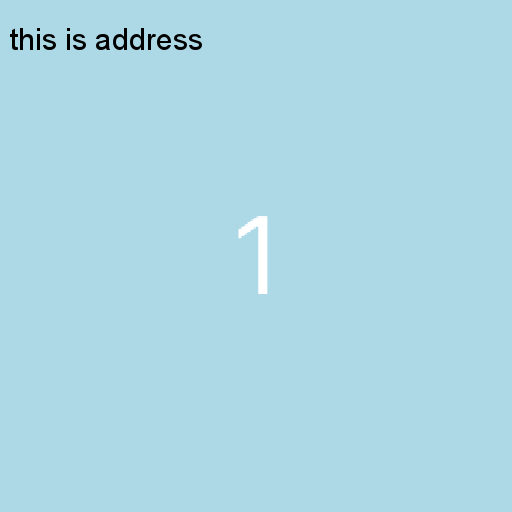
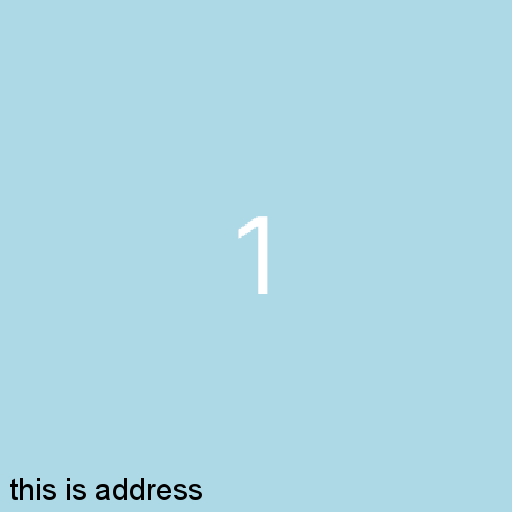
chore

Changed region(s): [[0.0, 0.9375, 0.4062, 1.0], [0.0, 0.0625, 0.4062, 0.0938]]

diff --git a/src/utils/cloudinary.ts b/src/utils/cloudinary.ts
@@ -26,26 +26,6 @@ const uploadImagePath = async (file: string) => {
   }
 };
 
-// const uploadImageFile = async (file: Buffer) => {
-//   try {
-//     const data = cd.uploader
-//       .upload_stream({ format: "png" }, (err, res) => {
-//         if (err) {
-//           console.log(err);
-//         } else {
-//           console.log(`Upload succeed: ${res}`);
-//           // filteredBody.photo = result.url;
-//         }
-//       })
-//       .end(file);
-//     console.log(data);
-//     return data;
-//   } catch (error) {
-//     console.log(error);
-//     return null;
-//   }
-// };
-
 const uploadBuffer = async (
   buffer: Buffer
 ): Promise<_cloudinary.UploadApiResponse | undefined> => {
@@ -67,10 +47,50 @@ const uploadBuffer = async (
   });
 };
 
+const getAssetInfo = async (
+  publicId: string
+): Promise<_cloudinary.ResponseCallback | undefined> => {
+  // Return colors in the response
+  const options = {
+    colors: true,
+  };
+
+  try {
+    // Get details about the asset
+    const result = await cd.api.resource(publicId, options);
+    // console.log(result);
+    return result;
+  } catch (error) {
+    console.error(error);
+  }
+};
+
+const createImageTag = (publicId: string, colors: any[]) => {
+  // Set the effect color and background color
+  // console.log(colors);
+  // const [[effectColor, backgroundColor]] = colors;
+  // console.log(effectColor, backgroundColor);
+
+  // Create an image tag with transformations applied to the src URL
+  let imageTag = cd.image(publicId, {
+    transformation: [
+      { width: 250, height: 250, gravity: "faces", crop: "thumb" },
+      { radius: "max" },
+      { effect: "outline:10", color: "#ADD8E6" },
+      { background: "99.1" },
+    ],
+  });
+
+  return imageTag;
+};
+
 // uploadImageFile,
 export const cloudinary = {
   uploadImagePath,
   uploadBuffer,
+  getAssetInfo,
+  createImageTag,
+  cd,
 };
 
 export default cd;

diff --git a/src/controller/metadata.ts b/src/controller/metadata.ts
@@ -7,17 +7,42 @@ import { readPng } from "../utils/common";
 export const getMetadata = async (req: Request, res: Response) => {
   const id = req.params?.id;
   try {
-    if (!id) throw new Error("getMetadata || id is not provided");
+    if (!id) throw new Error("id is not provided");
     const metadata = await db.Metadata.query.findMetadata(Number(id));
     if (metadata) {
-      res.status(200).json(metadata.metadata);
+      return res.status(200).json(metadata.metadata);
     } else {
-      res.status(404).json({ message: "Metadata not found" });
+      return res.status(404).json({ message: "Metadata not found" });
     }
-  } catch (error) {
-    console.log(error);
-    res.status(500).json({ message: "getMetadata || internal error" });
+  } catch (error: any) {
+    const message = error.message || "internal error";
+    res.status(500).json({ message });
   }
 };
 
-export const getImage = (req: Request, res: Response) => {};
+export const getImage = async (req: Request, res: Response) => {
+  try {
+    const public_id = "s3jeaktszkwy4fpcemcu";
+    const tmp_public_id = req.params?.id;
+
+    if (!public_id) throw new Error("id is not provided");
+
+    // console.log(public_id);
+    const resource = (await cloudinary.getAssetInfo(public_id)) as any;
+    if (!resource) throw new Error("resource is not found in cloudinary");
+    // console.log(resource);
+    // const img = cloudinary.createImageTag(public_id, resource);
+    // console.log(img);
+    const img = cloudinary.cd.image(public_id, { width: 400, crop: "pad" });
+    // const img = `<img src="${resource.secure_url}" />`;
+
+    // console.log(img);
+    res.send(img);
+  } catch (error: any) {
+    const message = error.message || "internal error";
+    console.log(message);
+    res.status(500).send(message);
+  }
+};
+
+export const uploadJson = (req: Request, res: Response) => {};

diff --git a/src/controller/image copy.ts b/src/controller/image copy.ts
@@ -11,18 +11,7 @@ import {
 import { cloudinary } from "../utils/cloudinary";
 import { readPng, writePng } from "../utils/common";
 
-export const getImage = async (req: Request, res: Response) => {
-  try {
-    const { public_id } = req.params;
-    console.log(public_id);
-    const resource = await cloudinary.getAssetInfo(public_id);
-    console.log(resource);
-    res.send(resource);
-  } catch (error) {
-    console.log(error);
-    res.status(500).send(error);
-  }
-};
+export const getImage = (req: Request, res: Response) => {};
 
 export const uploadImage = async (req: Request, res: Response) => {
   try {
@@ -31,10 +20,13 @@ export const uploadImage = async (req: Request, res: Response) => {
     const png = readPng(tmpPath);
     if (!png) throw new Error("fail to read png file");
 
+    //
     // await loadLayerImg(png);
     const loadedImage = (await loadLayerImg(png)) as Buffer;
     drawElement(loadedImage);
     drawText("this is address");
+    // saveCanvasPng(`${BASE_PATH}/images/new-image.png`);
+    // console.log(canvasImg);
 
     // const publicId = await cloudinary.uploadImageFile(png);
     const cdBuffer = await cloudinary.uploadBuffer(getCanvasPng());
@@ -43,6 +35,7 @@ export const uploadImage = async (req: Request, res: Response) => {
     res.status(200).json(cdBuffer);
     clearCanvas();
   } catch (error) {
+    console.log(error);
     res.status(500).json({ message: error });
   }
 };

diff --git a/src/utils/canvas.ts b/src/utils/canvas.ts
@@ -37,7 +37,7 @@ export const clearCanvas = () => {
 
 export const drawText = (text: string) => {
   ctx.font = "30px Arial";
-  ctx.fillText(text, 10, 50);
+  ctx.fillText(text, 10, 500);
 };
 
 export const saveCanvasPng = (path: string) => {
@@ -48,20 +48,3 @@ export const saveCanvasPng = (path: string) => {
 };
 
 export const getCanvasPng = () => canvas.toBuffer("image/png");
-
-// export const saveImage = (_editionCount: number | string) => {
-//   fs.writeFileSync(
-//     `${buildDir}/images/${_editionCount}.png`,
-//     canvas.toBuffer("image/png") // 지금까지 ctx에 쌓아서 저장한거를 이미지로 만드는 작업
-//   );
-// };
-
-// const buildSetup = () => {
-//   if (fs.existsSync(buildDir)) {
-//     fs.rmdirSync(buildDir, { recursive: true });
-//   }
-//   fs.mkdirSync(buildDir);
-
-//   fs.mkdirSync(`${buildDir}/json`);
-//   fs.mkdirSync(`${buildDir}/images`);
-// };

diff --git a/src/routes/json.ts b/src/routes/json.ts
@@ -1,8 +1,7 @@
 import express from "express";
-import { getImage, uploadImage } from "../controller/metadata";
+import { uploadJson } from "../controller/metadata";
 const router = express.Router();
 
-// router.get("/:id", getImage);
-router.post("/:id", uploadImage);
+router.post("/:id", uploadJson);
 
 export default router;
